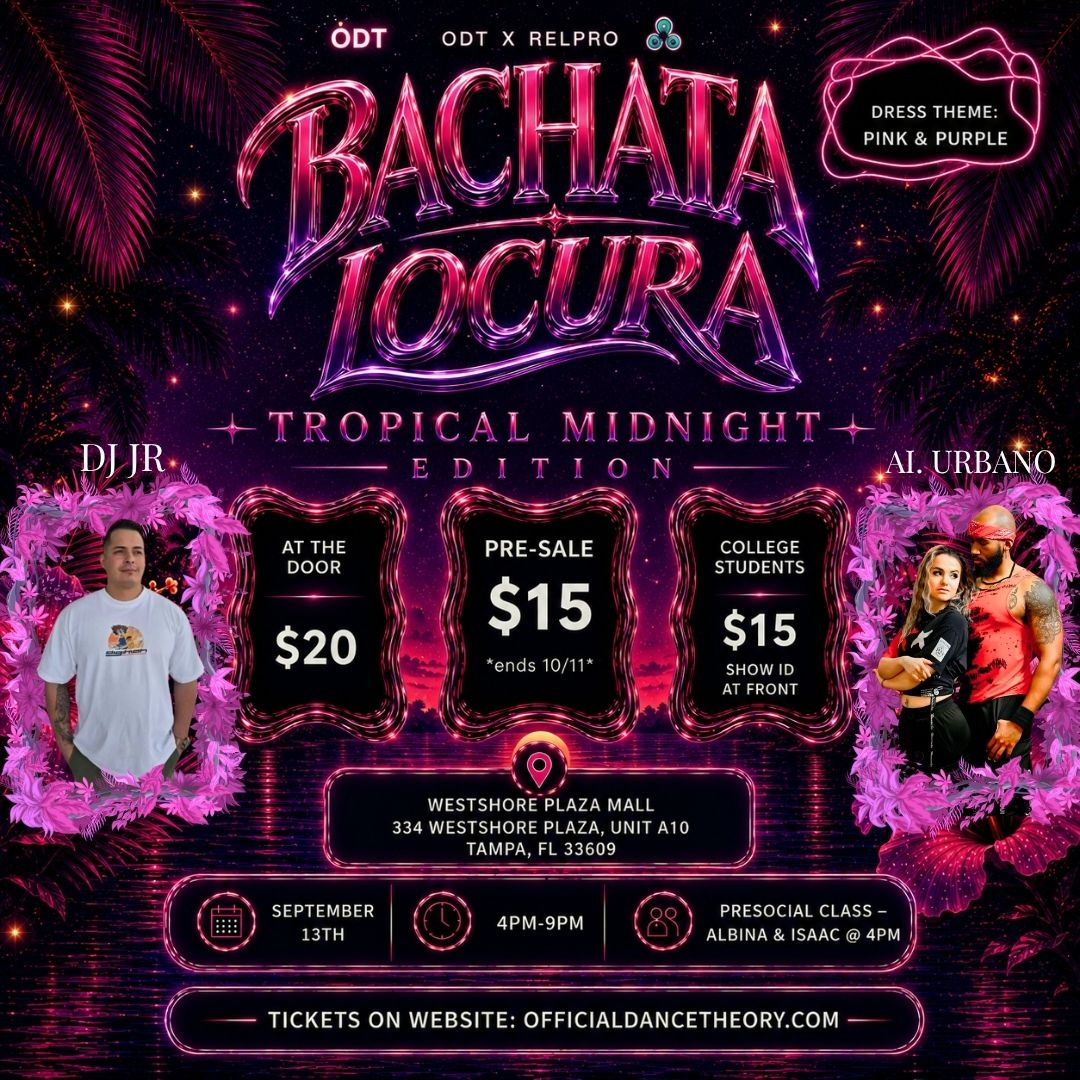
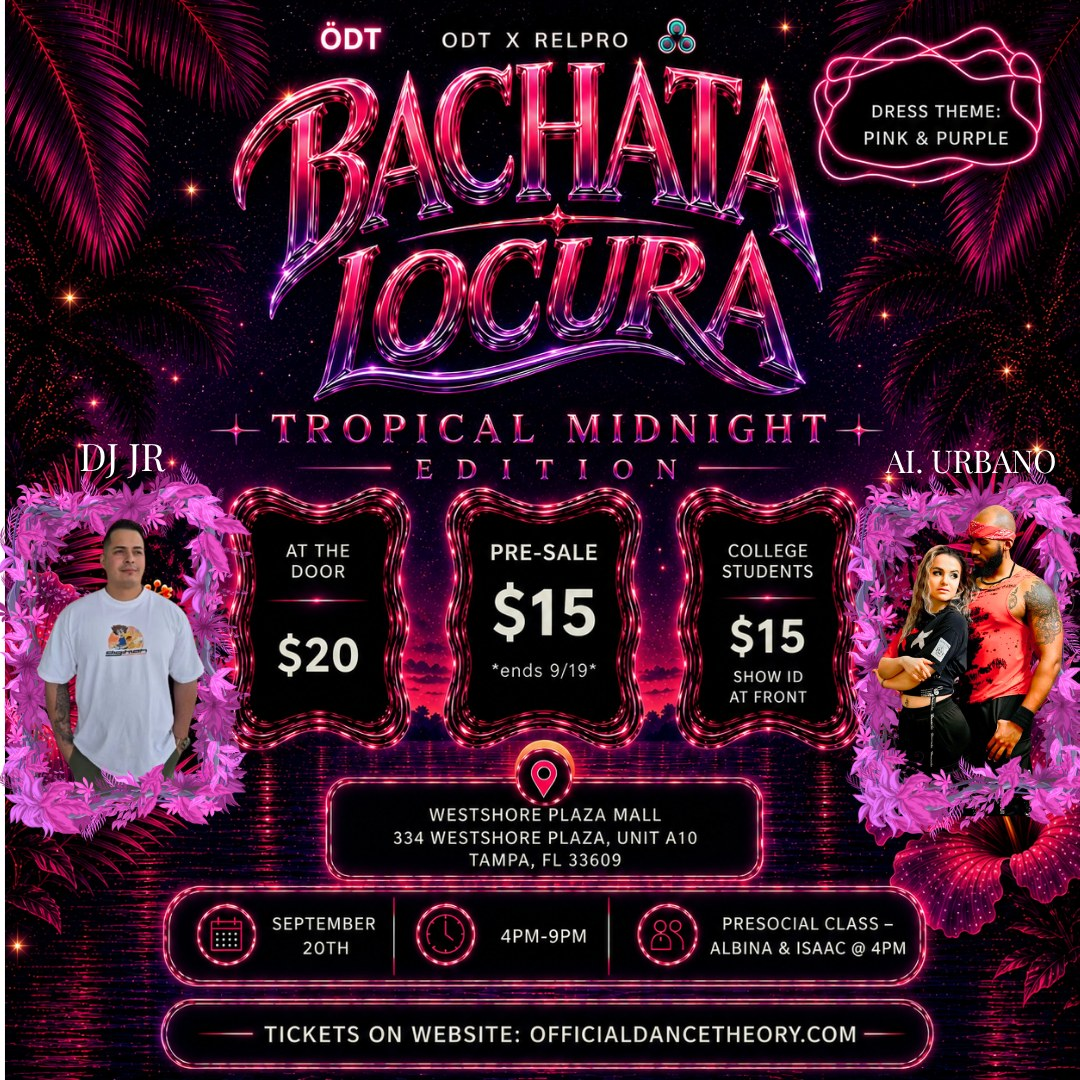
Hide X1 tab from navbar completely until ready to launch

diff --git a/src/components/Navbar.tsx b/src/components/Navbar.tsx
@@ -3,6 +3,11 @@ import { Sparkles, Calendar, Ticket, MapPin, Crown, Menu, X, CheckCircle2, Messa
 import { STUDIO_INFO } from '../data/danceData';
 import { AiUrbanoLogo } from './AiUrbanoLogo';
 
+// X1 isn't ready to launch yet — hides the nav tab entirely rather than
+// showing a disabled/"coming soon" state. Flip to true (and flip
+// X1_IS_LIVE in BachataX1Page.tsx) when it's time to bring X1 live.
+const SHOW_X1_TAB = false;
+
 interface NavbarProps {
   onOpenBooking: (passTypeId?: string, quantity?: number) => void;
   onOpenSavedPasses: () => void;
@@ -114,19 +119,26 @@ export const Navbar: React.FC<NavbarProps> = ({
               <span>Classes</span>
             </button>
 
-            {/* X1 Tab — Bachata X1 private training with Isaac & Albina */}
-            <button
-              onClick={() => handleNavClick('x1')}
-              id="nav-link-x1"
-              className={`px-3 sm:px-4 py-1.5 rounded-full text-xs font-bold tracking-wide transition-all duration-200 flex items-center gap-1.5 ${
-                currentPage === 'x1'
-                  ? 'bg-white text-black font-black shadow-[0_0_15px_rgba(255,255,255,0.4)] scale-105'
-                  : 'text-slate-200 hover:text-white hover:bg-white/10'
-              }`}
-            >
-              <Flame className={`w-3.5 h-3.5 ${currentPage === 'x1' ? 'text-black' : 'text-rose-400'}`} />
-              <span>X1</span>
-            </button>
+            {/* X1 Tab — hidden until it's ready to launch (see SHOW_X1_TAB) */}
+            {SHOW_X1_TAB && (
+              <button
+                onClick={() => handleNavClick('x1')}
+                id="nav-link-x1"
+                className={`px-3 sm:px-4 py-1.5 rounded-full text-xs font-bold tracking-wide transition-all duration-200 flex items-center gap-1.5 ${
+                  currentPage === 'x1'
+                    ? 'bg-white text-black font-black shadow-[0_0_15px_rgba(255,255,255,0.4)] scale-105'
+                    : 'text-slate-200 hover:text-white hover:bg-white/10'
+                }`}
+              >
+                <Flame className={`w-3.5 h-3.5 ${currentPage === 'x1' ? 'text-black' : 'text-rose-400'}`} />
+                <span>X1</span>
+                <span className={`text-[7px] font-black px-1 py-0.5 rounded-full leading-none ${
+                  currentPage === 'x1' ? 'bg-black text-white' : 'bg-white/15 text-slate-300'
+                }`}>
+                  SOON
+                </span>
+              </button>
+            )}
 
             {/* Desktop Only: More Dropdown */}
             <div className="relative hidden md:block">

diff --git a/src/components/x1/X1ComingSoon.tsx b/src/components/x1/X1ComingSoon.tsx
@@ -1,0 +1,27 @@
+import React from 'react';
+
+// Simple, self-contained "coming soon" placeholder for Bachata X1.
+// Matches the same font-brand chrome-text treatment as the real X1 page
+// so it still feels on-brand rather than like a broken/empty page.
+export const X1ComingSoon: React.FC = () => {
+  return (
+    <div className="bg-black text-[#ededed] antialiased overflow-x-hidden min-h-[70vh] flex flex-col items-center justify-center text-center px-6 py-24">
+      <span className="inline-flex items-center gap-2 px-3.5 py-1 mb-8 bg-white/[0.03] border border-white/10 backdrop-blur-md rounded-full text-[10px] sm:text-xs font-mono tracking-[0.3em] uppercase text-neutral-300">
+        <span className="w-1.5 h-1.5 rounded-full bg-white shadow-[0_0_8px_rgba(255,255,255,0.9)] animate-pulse" />
+        Coming Soon
+      </span>
+
+      <h1 className="font-brand text-6xl xs:text-7xl sm:text-8xl md:text-8xl font-bold tracking-wider sm:tracking-widest text-chrome drop-shadow-[0_0_35px_rgba(255,255,255,0.35)] leading-none select-none mb-6">
+        X1
+      </h1>
+
+      <p className="font-display text-xs sm:text-sm font-bold tracking-[0.3em] uppercase text-neutral-400 mb-3">
+        Bachata X1
+      </p>
+
+      <p className="text-sm sm:text-base text-neutral-400 max-w-md">
+        Something new is on the way. Private training sessions with Albina &amp; Antonio — details and booking coming soon.
+      </p>
+    </div>
+  );
+};

diff --git a/src/components/BachataX1Page.tsx b/src/components/BachataX1Page.tsx
@@ -8,6 +8,12 @@ import { ExperienceTimeline } from './x1/ExperienceTimeline';
 import { CommunitySection } from './x1/CommunitySection';
 import { FinalCTA } from './x1/FinalCTA';
 import { X1BookingModal } from './x1/X1BookingModal';
+import { X1ComingSoon } from './x1/X1ComingSoon';
+
+// Flip this to true to bring X1 fully live (real page, real booking).
+// Everything below stays fully built and ready — this is the only line
+// that needs to change when it's time to launch.
+const X1_IS_LIVE = false;
 
 interface BachataX1PageProps {
   onOpenBooking: (passTypeId?: string, quantity?: number) => void;
@@ -24,6 +30,10 @@ export const BachataX1Page: React.FC<BachataX1PageProps> = ({ onOpenBooking }) =
     setIsBookingOpen(false);
     onOpenBooking(passId);
   };
+
+  if (!X1_IS_LIVE) {
+    return <X1ComingSoon />;
+  }
 
   return (
     <div className="bg-black text-[#ededed] selection:bg-white selection:text-black antialiased overflow-x-hidden">

diff --git a/src/components/BachataLocuraSocialSection.tsx b/src/components/BachataLocuraSocialSection.tsx
@@ -304,7 +304,7 @@ export const BachataLocuraSocialSection: React.FC<BachataLocuraSocialSectionProp
               </div>
 
               <p className="text-center text-[10px] text-slate-500 mt-3">
-                Pre-sale ends 10/11 · Students show ID at the door · At the door, pay in person
+                Pre-sale ends 9/19 · Students show ID at the door · At the door, pay in person
               </p>
             </div>
 
